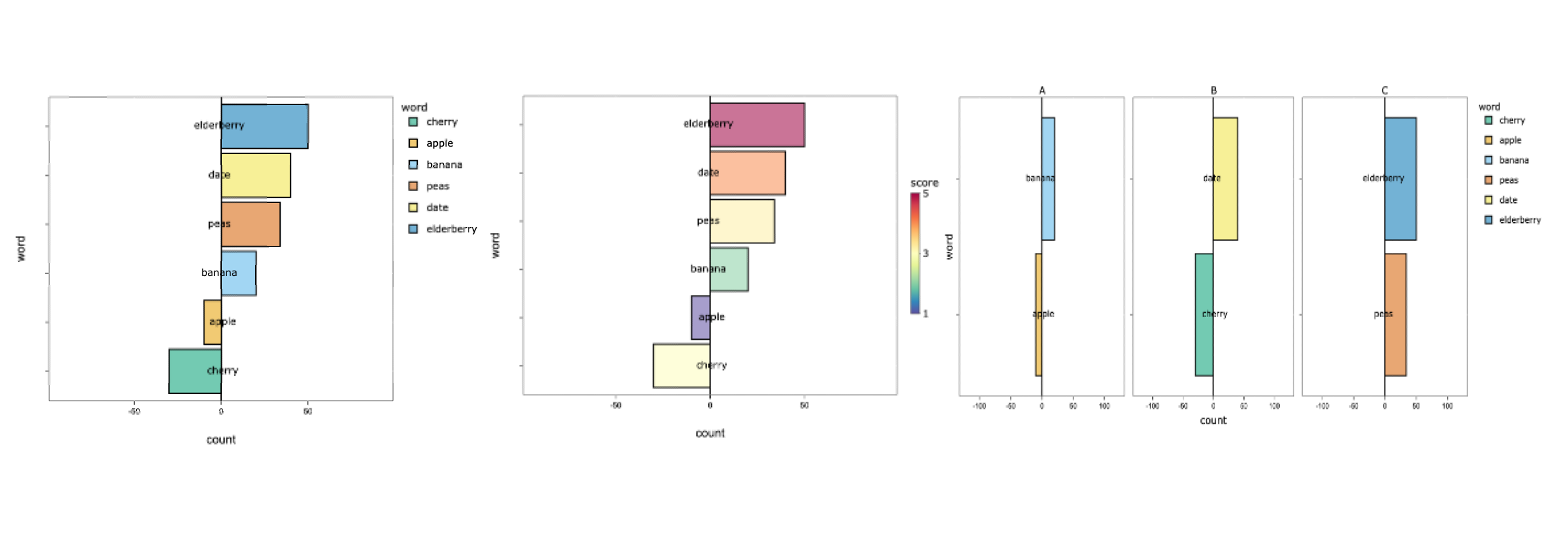
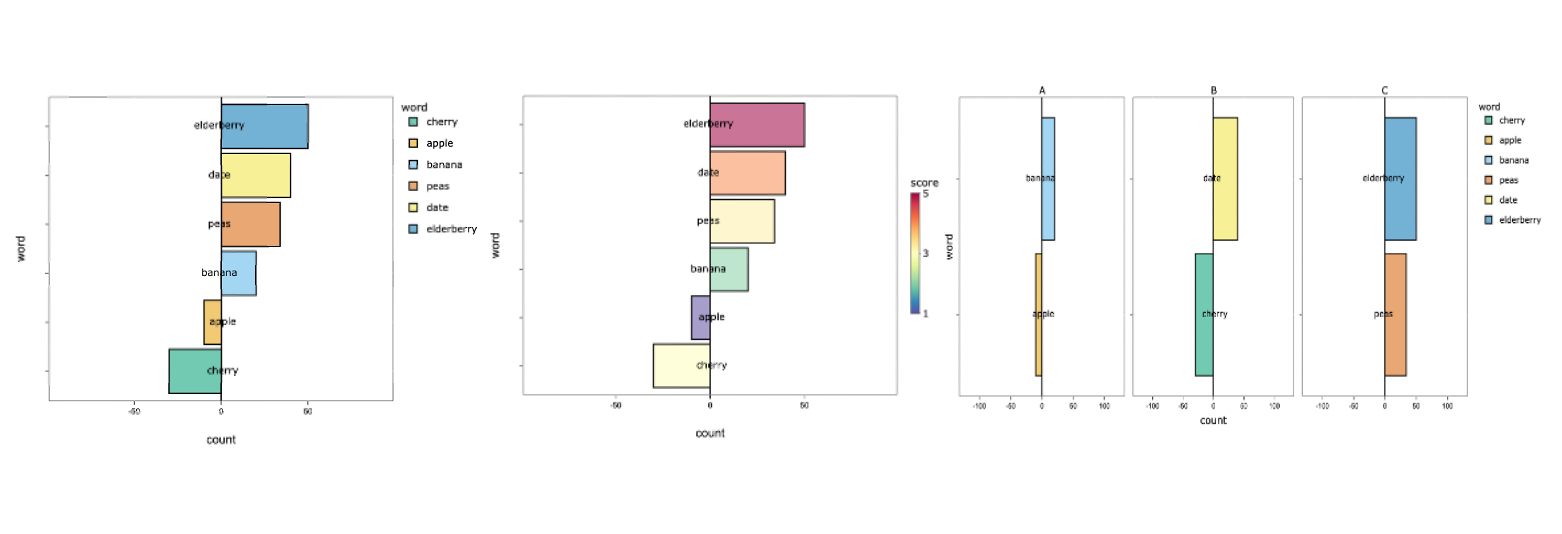
ReadMEupdate

diff --git a/README.md b/README.md
@@ -246,6 +246,76 @@ To contribute a new module to the package, see the vignette for guidelines: `vig
 
 ### Examples of Plots:
 
-LinePlot:
+['LinePlot:'][1]
 
 ![](man/PlotImages/LinePlot.png)
+
+['AreaPlot:'][2]
+
+![](man/PlotImages/AreaPlot.png)
+
+['BoxPlot:'][3]
+
+![](man/PlotImages/BoxPlot.png)
+
+['DensityPlot:'][4]
+
+![](man/PlotImages/DensityPlot.png)
+
+['DumbellPlot:'][5]
+
+![](man/PlotImages/DumbellPlot.png)
+
+['HistogramPlot:'][6]
+
+![](man/PlotImages/HistogramPlot.png)
+
+['ParallelCoordinatePlot:'][7]
+
+![](man/PlotImages/ParallelPlot.png)
+
+['PiePlot:'][8]
+
+![](man/PlotImages/PiePlot.png)
+
+['RadarPlot:'][9]
+
+![](man/PlotImages/RadarPlot.png)
+
+['ScatterPlot:'][10]
+
+![](man/PlotImages/ScatterPlot.png)
+
+['SplitBarPlot:'][11]
+
+![](man/PlotImages/SplitBarPlot.png)
+
+['TernaryPlot:'][12]
+
+![](man/PlotImages/ternaryPlot.png)
+
+['ViolinPlot:'][13]
+
+![](man/PlotImages/ViolinPlot.png)
+
+['yPlot:'][14]
+
+![](man/PlotImages/yPlot.png)
+
+
+
+
+[1]: https://j-andrews7.github.io/VizModules/reference/linePlotApp.html
+[2]: https://j-andrews7.github.io/VizModules/reference/plotthis_AreaPlotApp.html
+[3]: https://j-andrews7.github.io/VizModules/reference/plotthis_BoxPlotApp.html
+[4]: https://j-andrews7.github.io/VizModules/reference/plotthis_DensityPlotApp.html
+[5]:https://j-andrews7.github.io/VizModules/reference/dumbbellPlotApp.html
+[6]:https://j-andrews7.github.io/VizModules/reference/plotthis_HistogramApp.html
+[7]:https://j-andrews7.github.io/VizModules/reference/parallelCoordinatesPlotApp.html
+[8]:https://j-andrews7.github.io/VizModules/reference/piePlotApp.html
+[9]:https://j-andrews7.github.io/VizModules/reference/radarPlotApp.html
+[10]:https://j-andrews7.github.io/VizModules/reference/dittoViz_scatterPlotApp.html
+[11]:https://j-andrews7.github.io/VizModules/reference/plotthis_SplitBarPlotApp.html
+[12]:https://j-andrews7.github.io/VizModules/reference/ternaryPlotApp.html
+[13]:https://j-andrews7.github.io/VizModules/reference/plotthis_ViolinPlotApp.html
+[14]:https://j-andrews7.github.io/VizModules/reference/dittoViz_yPlotApp.html
